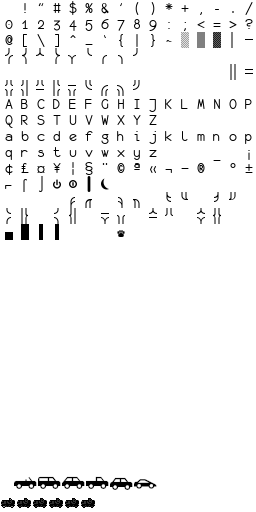
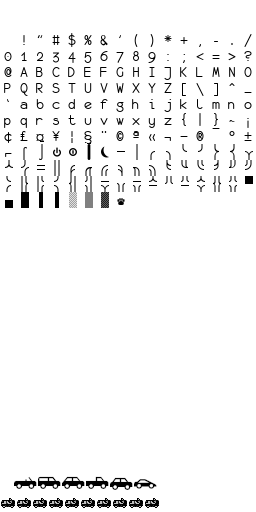
fix: line locations in map

diff --git a/src/display/mod.rs b/src/display/mod.rs
@@ -28,7 +28,7 @@ impl Display {
     /// initialize the display
     pub fn new() -> Display {
         let mut root = RootConsole::initializer()
-            .font(SPRITE_MAP, FontLayout::Tcod)
+            .font(SPRITE_MAP, FontLayout::AsciiInRow)
             .font_type(FontType::Greyscale)
             .font_dimensions(SPRITE_WIDTH, SPRITE_HEIGHT)
             .size(SCREEN_WIDTH, SCREEN_HEIGHT)
